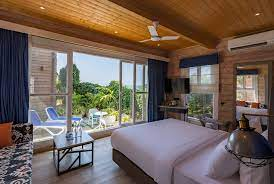
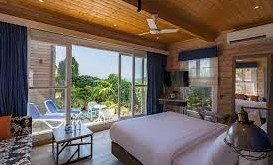
updated

diff --git a/index.html b/index.html
@@ -102,7 +102,7 @@
           stars keeping watch. Come, take advantage.
         </p>
       </div>
-      <div class="slide-show">
+      <div class="slide-show d-flex justify-content-center">
         <div
           id="carouselExampleIndicators"
           class="carousel slide"
@@ -118,7 +118,7 @@
             <li data-target="#carouselExampleIndicators" data-slide-to="2"></li>
           </ol>
           <div class="carousel-inner">
-            <div class="carousel-item active">
+            <div class="carousel-item active ">
               <img
                 class="d-block w-100"
                 src="./images/room.jpg"

diff --git a/index.css b/index.css
@@ -4,6 +4,20 @@ body{
     background-color:#e3ccde !important;
     font-family:"cursive";
 }
+.carousel {
+    width:640px;
+    height:360px;
+    
+    margin-bottom: 20px;
+    padding-bottom:10px;
+  }
+.slide-show{
+    text-align:center;
+}
+.carousel-inner > .item > img {
+    width:640px;
+    height:360px;
+  }
 /* .carousel-item{
     text-align:center;
     align-item:center;
